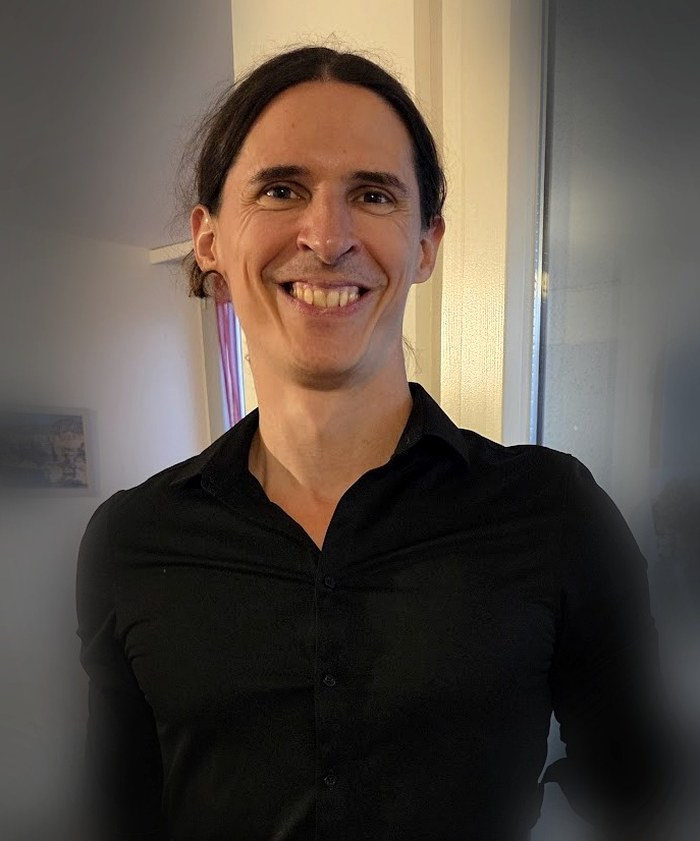
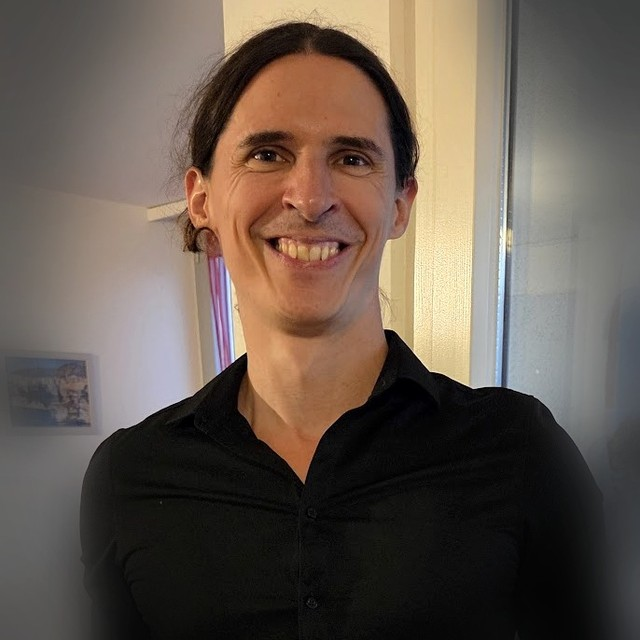
Larger profile photo, fix head crop

diff --git a/index.html b/index.html
@@ -180,8 +180,8 @@
   .bio-foot-photo{display:flex;align-items:center;gap:1.1rem}
   .bio-foot-photo p{margin:0}
   .bio-photo{
-    width:110px;height:110px;border-radius:50%;object-fit:cover;flex-shrink:0;
-    border:3px solid var(--sand-2);
+    width:180px;height:180px;border-radius:50%;object-fit:cover;object-position:center 22%;flex-shrink:0;
+    border:4px solid var(--sand-2);
   }
 
   /* ---------- contact ---------- */
@@ -226,6 +226,8 @@
     .offer{padding:1.6rem 1.35rem}
     .contact-box{padding:2.25rem 1.4rem}
     .pull p{font-size:1.15rem}
+    .bio-foot-photo{flex-direction:column;align-items:flex-start;text-align:left}
+    .bio-photo{width:130px;height:130px}
   }
 </style>
 </head>
